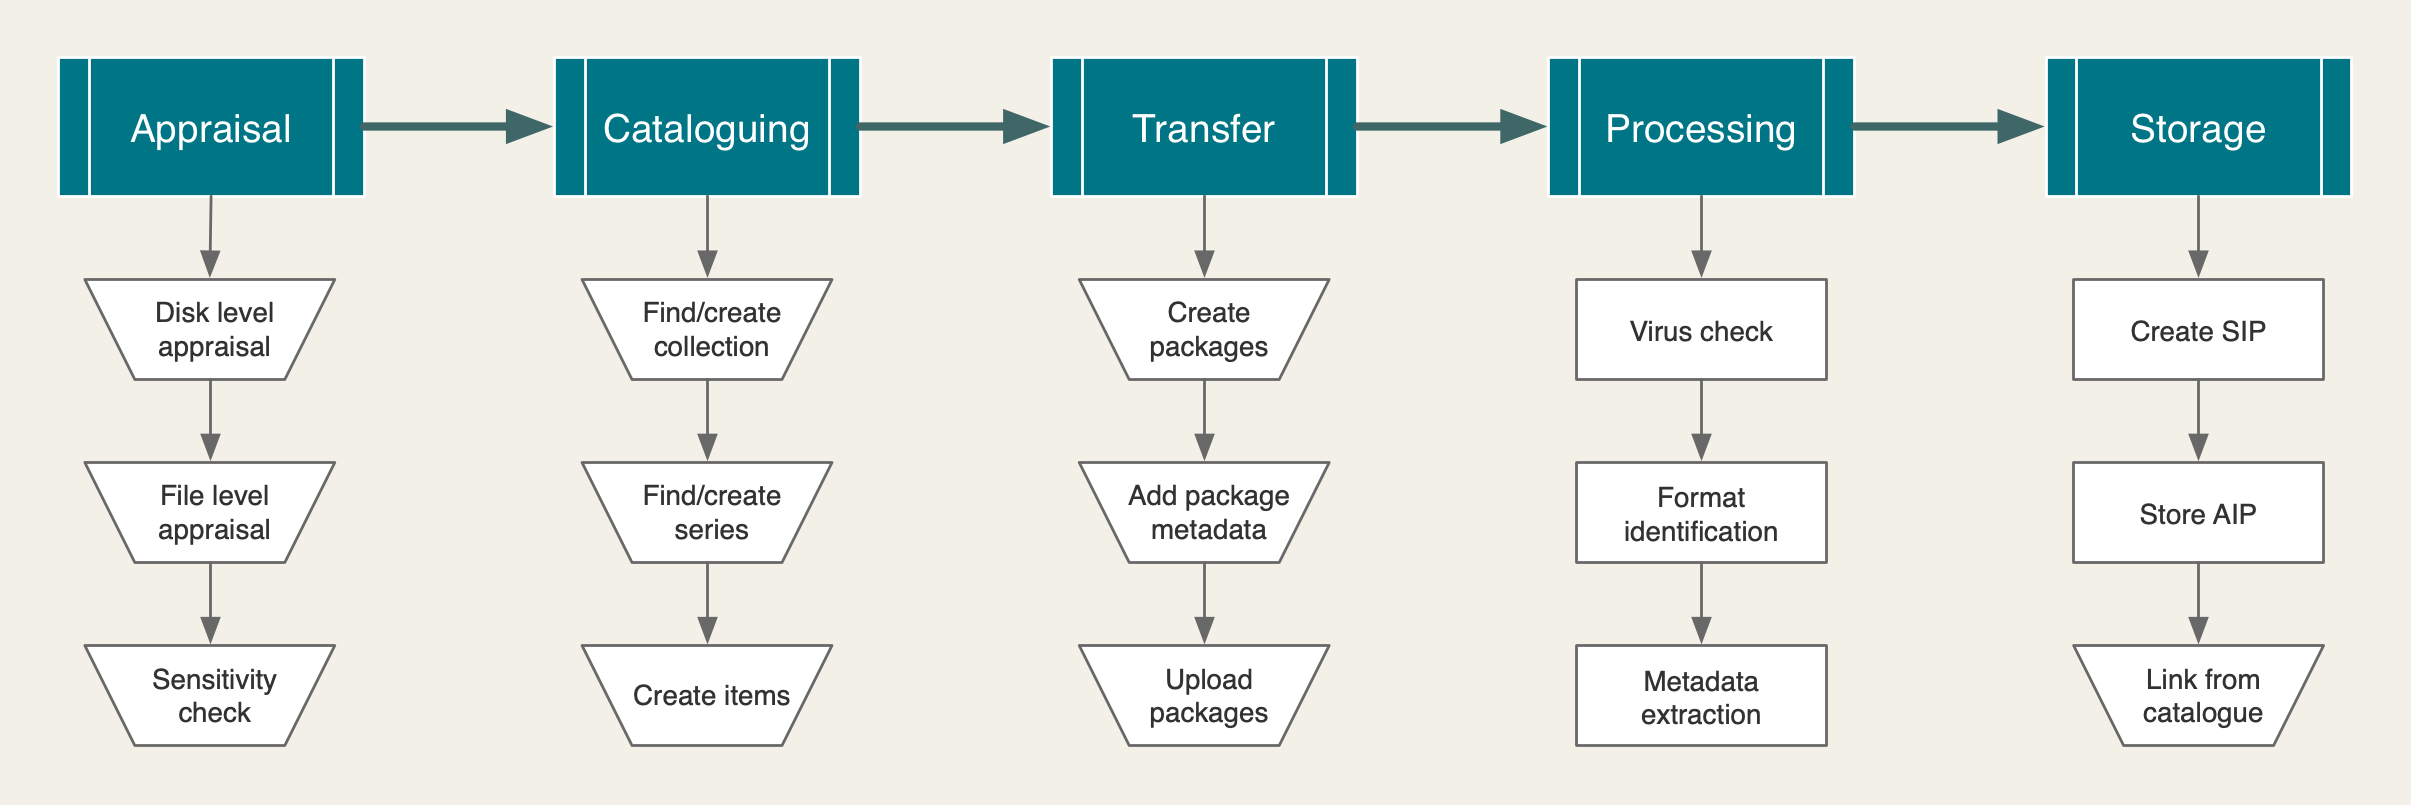
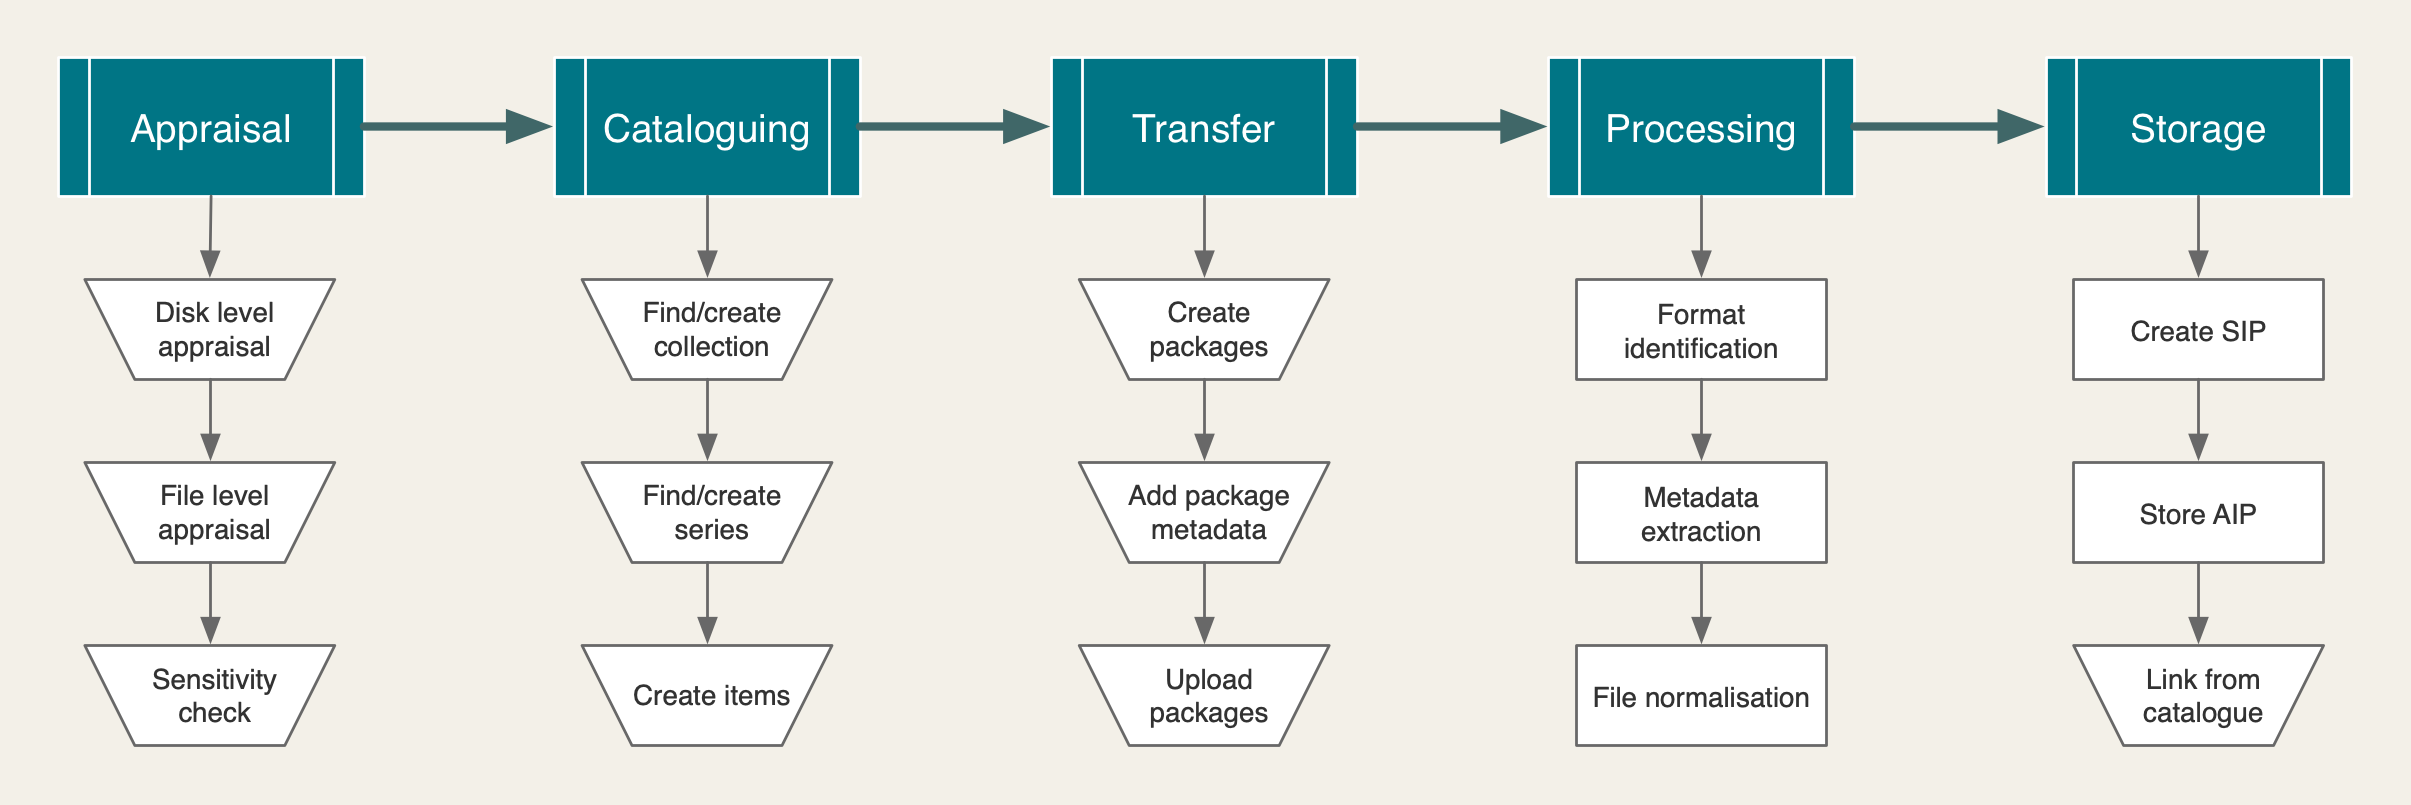
Added processing section

Changed region(s): [[0.6533, 0.3727, 0.7466, 0.4658], [0.6533, 0.8385, 0.7466, 0.9006], [0.6533, 0.5901, 0.7466, 0.6832]]

diff --git a/rfcs/014-born_digital_workflow/README.md b/rfcs/014-born_digital_workflow/README.md
@@ -95,24 +95,23 @@ Access to S3 requires the installation of a client application. Until this can b
 
 ### Processing
 
-- how transfers are started in archivematica
-- automation settings in archivematica
+Archivematica will be configured to perform all processing steps automatically. No manual intervention should be required once zip files created with the current manual appraisal process have been uploaded to S3.
+
+We will use the default format policies and tools that come pre-configured in Archivematica, ensuring ongoing best practice for format identification, metadata extraction and file normalisation. All files are virus checked by Archivematica before processing.
 
 | Step                  | Description |
 |-----------------------|-------------|
-| Virus check           |  |
-| Format identification |  |
-| Metadata extraction   |  |
+| Format identification | Determine the most reliable way to identify the format of each file, as described in PRONOM. |
+| Metadata extraction   | Run format-specific tools to extract as much metadata as possible from within each file. |
+| File normalisation    | Convert files into the formats best suited for preservation and access, in addition to keeping the original file. |
 
-#### Processing configuration
-
-This will be a fully automated workflow configured as follows:
+To achieve a fully automated workflow, we will use a pipeline with the following processing configuration:
 
 | Setting                                           | Value    |
 |---------------------------------------------------|----------|
 | Assign UUIDs to directories                       | No       |
-| Send transfer to quarantine.                      | No       |
-| Remove from quarantine after (days).              | 28       |
+| Send transfer to quarantine                       | No       |
+| Remove from quarantine after (days)               | 28       |
 | Generate transfer structure report                | No       |
 | Perform file identification (Transfer)            | Yes      |
 | Extract packages                                  | No       |
@@ -133,11 +132,11 @@ This will be a fully automated workflow configured as follows:
 | Perform file format identification command (Submission documentation & metadata) | No |
 | Select compression algorithm                      | Gzipped tar |
 | Select compression level                          | 5 - normal compression mode |
-| Store AIP | Yes |
-| Store AIP location | Wellcome AIP Storage |
-| Upload DIP | Do not upload |
-| Store DIP | Do not store |
-| Store DIP location | Default location |
+| Store AIP                                         | Yes      |
+| Store AIP location                                | Wellcome AIP Storage |
+| Upload DIP                                        | Do not upload |
+| Store DIP                                         | Do not store |
+| Store DIP location                                | Default location |
 
 ### Storage
 
@@ -148,6 +147,7 @@ Where things end up
 | Create SIP          |  |
 | Store AIP           |  |
 | Link from catalogue |  |
+
 
 ## Future enhancement
 
